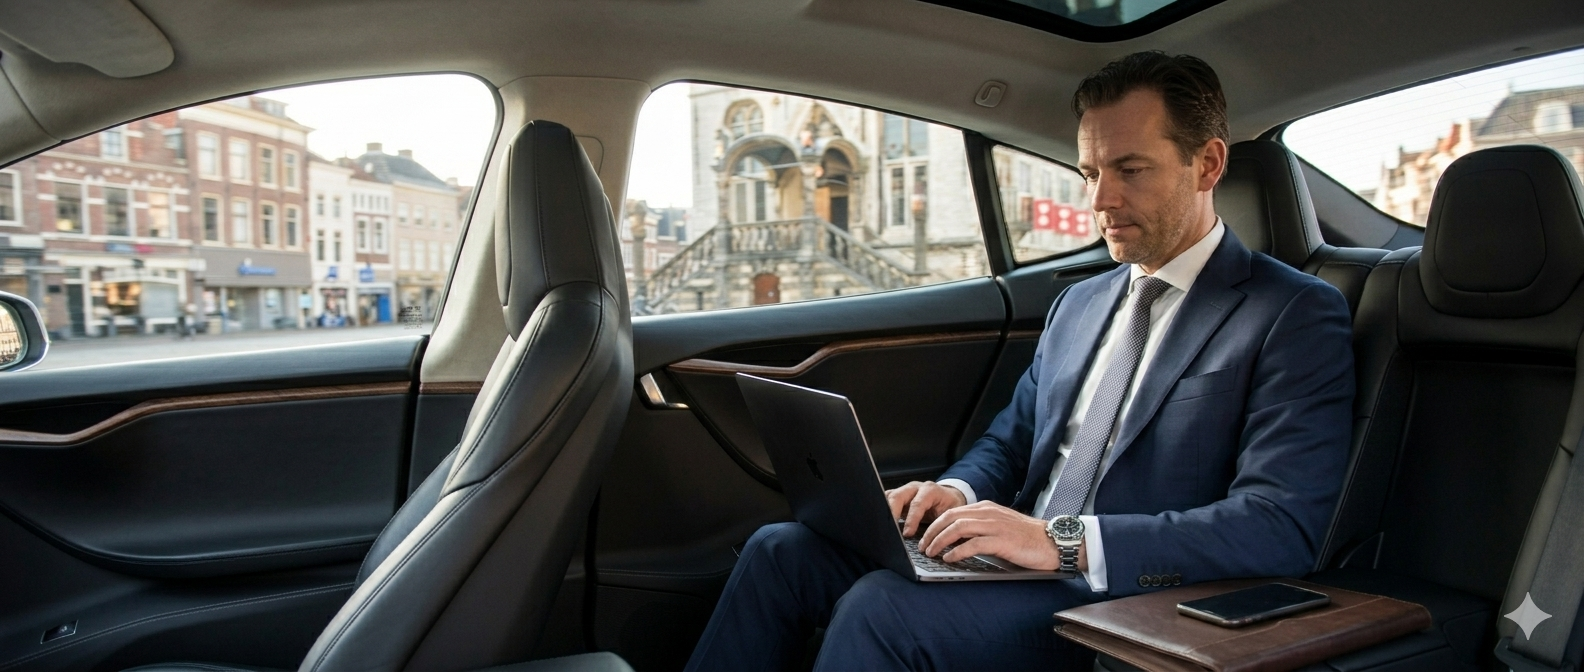
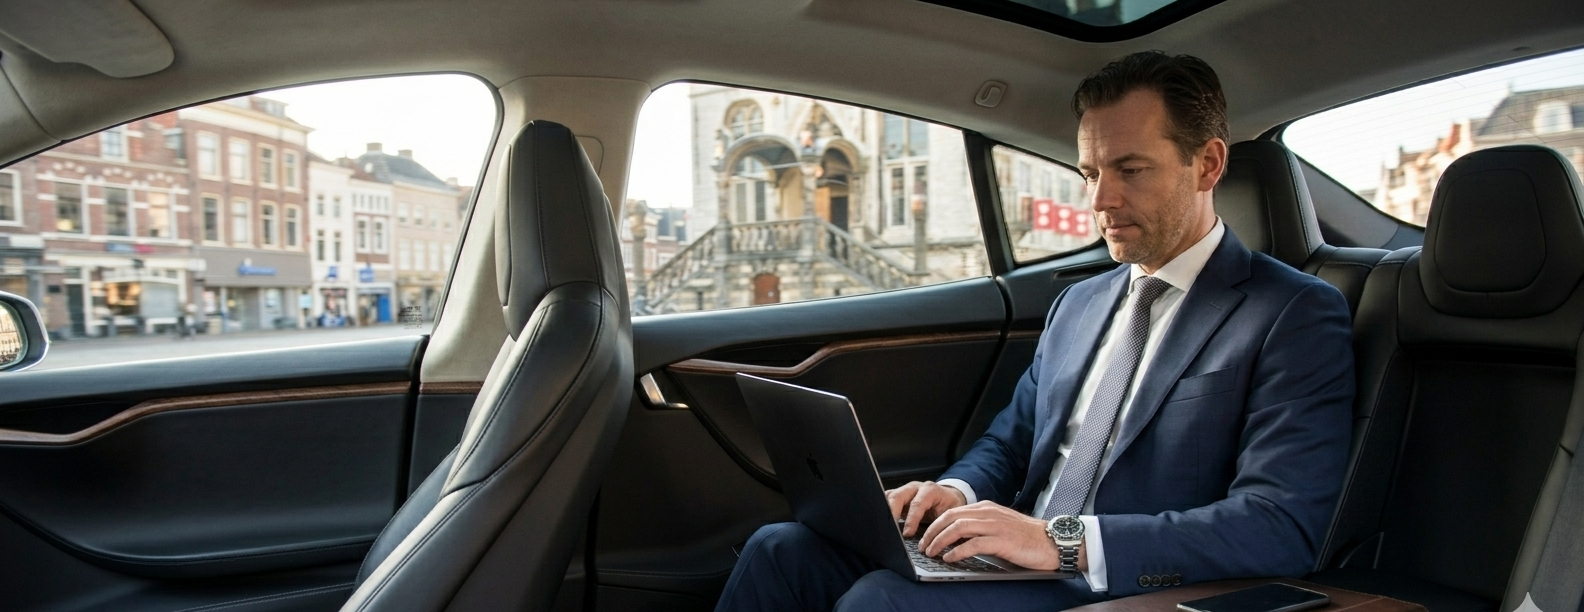
UI updates: hero carousel, footer, reviews, diensten contact notice
- Remove reviews section from homepage
- Update footer copyright to '2026 YAS taxicentrale alle rechten voorbehouden'
- Hero carousel: shorter height (78vh), pill-style buttons, stats above buttons
- Hero slides: switch to img tags with object-fit cover for full-quality display
- Remove Gemini watermarks from zakelijk and schoolvervoer images (crop bottom)
- Replace gemini gouda.png with gouda stad.png collage
- Add contact notice on airport-service page for unlisted start locations
- Left/right carousel arrows hidden

diff --git a/resources/views/home.blade.php b/resources/views/home.blade.php
@@ -10,119 +10,91 @@
 
     {{-- Slide 1: Airport --}}
     <div class="hero-slide active" id="slide-0">
-        <div class="hero-slide-bg" style="background-image:url('/vliegveld.jpg');filter:brightness(0.5)"></div>
-        <div class="absolute inset-0" style="background:linear-gradient(to bottom,rgba(0,0,0,0.1) 0%,rgba(0,0,0,0) 30%,rgba(0,0,0,0.8) 100%)"></div>
-        <div class="absolute bottom-0 left-0 right-0 px-8 sm:px-16 pb-16 z-10">
-            <h1 class="text-4xl sm:text-5xl lg:text-6xl font-black leading-tight mb-4 text-white">
-                Uw taxi naar<br><span class="text-[#f5c518]">alle luchthavens</span>
-            </h1>
-            <p class="text-white/75 text-base sm:text-lg max-w-lg mb-7 font-light leading-relaxed">
-                Betrouwbaar, punctueel en comfortabel naar Schiphol, Rotterdam en meer. 24/7 beschikbaar.
-            </p>
-            <div class="flex flex-wrap gap-3 mb-10">
-                <a href="{{ route('reserveren') }}" class="bg-[#f5c518] hover:bg-yellow-400 text-black font-bold px-6 py-3 rounded-xl transition-all hover:-translate-y-0.5 text-sm">
-                    Direct Boeken
-                </a>
-                <a href="{{ route('airport-service') }}" class="border border-white/40 hover:border-[#f5c518]/70 text-white font-semibold px-6 py-3 rounded-xl transition-all hover:-translate-y-0.5 text-sm backdrop-blur-sm">
-                    Bekijk Tarieven
-                </a>
+        <img class="hero-slide-img" src="/vliegveld.jpg" alt="Airport" style="filter:brightness(0.5)">
+        <div class="absolute inset-0" style="background:linear-gradient(135deg,rgba(0,0,0,0.7) 0%,rgba(0,0,0,0.3) 100%)"></div>
+        <div class="hero-content">
+            <span class="hero-label">Airport Transfer</span>
+            <h1 class="hero-title">Uw taxi naar<br><span class="hero-accent">alle luchthavens</span></h1>
+            <p class="hero-sub">Betrouwbaar, punctueel en comfortabel naar Schiphol, Rotterdam en meer. 24/7 beschikbaar.</p>
+            <div class="hero-stats">
+                <div class="hero-stat"><span class="hero-stat-val accent">24/7</span><span class="hero-stat-lbl">Beschikbaar</span></div>
+                <div class="hero-stat"><span class="hero-stat-val">€79,-</span><span class="hero-stat-lbl">Vanaf Gouda</span></div>
+                <div class="hero-stat"><span class="hero-stat-val">6+</span><span class="hero-stat-lbl">Luchthavens</span></div>
             </div>
-            <div class="flex gap-10 pt-5" style="border-top:1px solid rgba(255,255,255,0.15)">
-                <div><div class="text-2xl font-black text-[#f5c518]">24/7</div><div class="text-white/50 text-[10px] uppercase tracking-wider mt-0.5">Beschikbaar</div></div>
-                <div><div class="text-2xl font-black text-white">€79,-</div><div class="text-white/50 text-[10px] uppercase tracking-wider mt-0.5">Vanaf Gouda</div></div>
-                <div><div class="text-2xl font-black text-white">6+</div><div class="text-white/50 text-[10px] uppercase tracking-wider mt-0.5">Luchthavens</div></div>
+            <div class="hero-btns">
+                <a href="{{ route('reserveren') }}" class="hero-btn-primary">Direct Boeken</a>
+                <a href="{{ route('airport-service') }}" class="hero-btn-secondary">Bekijk Tarieven</a>
             </div>
         </div>
     </div>
 
     {{-- Slide 2: Gouda regio --}}
     <div class="hero-slide" id="slide-1">
-        <div class="hero-slide-bg" style="background-image:url('/gemini%20gouda.png');filter:brightness(0.45)"></div>
-        <div class="absolute inset-0" style="background:linear-gradient(to bottom,rgba(0,0,0,0.05) 0%,rgba(0,0,0,0) 25%,rgba(0,0,0,0.72) 100%)"></div>
-        <div class="absolute bottom-0 left-0 right-0 px-8 sm:px-16 pb-16 z-10">
-            <h2 class="text-4xl sm:text-5xl lg:text-6xl font-black leading-tight mb-4 text-white">
-                Taxi in Gouda<br><span class="text-[#f5c518]">& omgeving</span>
-            </h2>
-            <p class="text-white/75 text-base sm:text-lg max-w-lg mb-7 font-light leading-relaxed">
-                Van station Gouda naar uw bestemming, of door heel de regio. Snel, betrouwbaar en altijd op tijd.
-            </p>
-            <div class="flex flex-wrap gap-3 mb-10">
-                <a href="{{ route('reserveren') }}" class="bg-[#f5c518] hover:bg-yellow-400 text-black font-bold px-6 py-3 rounded-xl transition-all hover:-translate-y-0.5 text-sm">
-                    Rit Boeken
-                </a>
-                <a href="{{ route('diensten') }}" class="border border-white/40 hover:border-[#f5c518]/70 text-white font-semibold px-6 py-3 rounded-xl transition-all hover:-translate-y-0.5 text-sm backdrop-blur-sm">
-                    Meer Info
-                </a>
+        <img class="hero-slide-img" src="/gouda stad.png" alt="Gouda" style="filter:brightness(0.5)">
+        <div class="absolute inset-0" style="background:linear-gradient(135deg,rgba(0,0,0,0.7) 0%,rgba(0,0,0,0.3) 100%)"></div>
+        <div class="hero-content">
+            <span class="hero-label">Lokaal Vervoer</span>
+            <h2 class="hero-title">Taxi in Gouda<br><span class="hero-accent">& omgeving</span></h2>
+            <p class="hero-sub">Van station Gouda naar uw bestemming, of door heel de regio. Snel, betrouwbaar en altijd op tijd.</p>
+            <div class="hero-stats">
+                <div class="hero-stat"><span class="hero-stat-val accent">Gouda</span><span class="hero-stat-lbl">& Omgeving</span></div>
+                <div class="hero-stat"><span class="hero-stat-val">Snel</span><span class="hero-stat-lbl">Op Tijd</span></div>
+                <div class="hero-stat"><span class="hero-stat-val">24/7</span><span class="hero-stat-lbl">Bereikbaar</span></div>
             </div>
-            <div class="flex gap-10 pt-5" style="border-top:1px solid rgba(255,255,255,0.15)">
-                <div><div class="text-2xl font-black text-[#f5c518]">Gouda</div><div class="text-white/50 text-[10px] uppercase tracking-wider mt-0.5">& Omgeving</div></div>
-                <div><div class="text-2xl font-black text-white">Snel</div><div class="text-white/50 text-[10px] uppercase tracking-wider mt-0.5">Op Tijd</div></div>
-                <div><div class="text-2xl font-black text-white">24/7</div><div class="text-white/50 text-[10px] uppercase tracking-wider mt-0.5">Bereikbaar</div></div>
+            <div class="hero-btns">
+                <a href="{{ route('reserveren') }}" class="hero-btn-primary">Rit Boeken</a>
+                <a href="{{ route('diensten') }}" class="hero-btn-secondary">Meer Info</a>
             </div>
         </div>
     </div>
 
     {{-- Slide 3: Zakelijk --}}
     <div class="hero-slide" id="slide-2">
-        <div class="hero-slide-bg" style="background-image:url('/Gemini%20zakelijk.png');filter:brightness(0.5)"></div>
-        <div class="absolute inset-0" style="background:linear-gradient(to bottom,rgba(0,0,0,0.05) 0%,rgba(0,0,0,0) 25%,rgba(0,0,0,0.72) 100%)"></div>
-        <div class="absolute bottom-0 left-0 right-0 px-8 sm:px-16 pb-16 z-10">
-            <h2 class="text-4xl sm:text-5xl lg:text-6xl font-black leading-tight mb-4 text-white">
-                Zakelijk vervoer<br><span class="text-[#f5c518]">op maat</span>
-            </h2>
-            <p class="text-white/75 text-base sm:text-lg max-w-lg mb-7 font-light leading-relaxed">
-                Representatief en betrouwbaar voor uw zakelijke afspraken. Altijd netjes, altijd op tijd.
-            </p>
-            <div class="flex flex-wrap gap-3 mb-10">
-                <a href="{{ route('reserveren') }}" class="bg-[#f5c518] hover:bg-yellow-400 text-black font-bold px-6 py-3 rounded-xl transition-all hover:-translate-y-0.5 text-sm">
-                    Zakelijk Boeken
-                </a>
-                <a href="{{ route('contact') }}" class="border border-white/40 hover:border-[#f5c518]/70 text-white font-semibold px-6 py-3 rounded-xl transition-all hover:-translate-y-0.5 text-sm backdrop-blur-sm">
-                    Neem Contact Op
-                </a>
+        <img class="hero-slide-img" src="/Gemini zakelijk.png" alt="Zakelijk" style="filter:brightness(0.5)">
+        <div class="absolute inset-0" style="background:linear-gradient(135deg,rgba(0,0,0,0.7) 0%,rgba(0,0,0,0.3) 100%)"></div>
+        <div class="hero-content">
+            <span class="hero-label">Zakelijk Vervoer</span>
+            <h2 class="hero-title">Zakelijk vervoer<br><span class="hero-accent">op maat</span></h2>
+            <p class="hero-sub">Representatief en betrouwbaar voor uw zakelijke afspraken. Altijd netjes, altijd op tijd.</p>
+            <div class="hero-stats">
+                <div class="hero-stat"><span class="hero-stat-val accent">100%</span><span class="hero-stat-lbl">Betrouwbaar</span></div>
+                <div class="hero-stat"><span class="hero-stat-val">Vast</span><span class="hero-stat-lbl">Tarief</span></div>
+                <div class="hero-stat"><span class="hero-stat-val">Punctueel</span><span class="hero-stat-lbl">Gegarandeerd</span></div>
             </div>
-            <div class="flex gap-10 pt-5" style="border-top:1px solid rgba(255,255,255,0.15)">
-                <div><div class="text-2xl font-black text-[#f5c518]">100%</div><div class="text-white/50 text-[10px] uppercase tracking-wider mt-0.5">Betrouwbaar</div></div>
-                <div><div class="text-2xl font-black text-white">Vast</div><div class="text-white/50 text-[10px] uppercase tracking-wider mt-0.5">Tarief</div></div>
-                <div><div class="text-2xl font-black text-white">5★</div><div class="text-white/50 text-[10px] uppercase tracking-wider mt-0.5">Beoordeling</div></div>
+            <div class="hero-btns">
+                <a href="{{ route('reserveren') }}" class="hero-btn-primary">Zakelijk Boeken</a>
+                <a href="{{ route('contact') }}" class="hero-btn-secondary">Neem Contact Op</a>
             </div>
         </div>
     </div>
 
     {{-- Slide 4: Schoolvervoer --}}
     <div class="hero-slide" id="slide-4">
-        <div class="hero-slide-bg" style="background-image:url('/Gemini_Generated_Image_y6uy9qy6uy9qy6uy.png');background-position:center center;filter:brightness(0.45)"></div>
-        <div class="absolute inset-0" style="background:linear-gradient(to bottom,rgba(0,0,0,0.05) 0%,rgba(0,0,0,0) 25%,rgba(0,0,0,0.75) 100%)"></div>
-        <div class="absolute bottom-0 left-0 right-0 px-8 sm:px-16 pb-16 z-10">
-            <h2 class="text-4xl sm:text-5xl lg:text-6xl font-black leading-tight mb-4 text-white">
-                Veilig naar school,<br><span class="text-[#f5c518]">elke dag weer</span>
-            </h2>
-            <p class="text-white/75 text-base sm:text-lg max-w-lg mb-7 font-light leading-relaxed">
-                Betrouwbaar schoolvervoer voor uw kind. Vaste chauffeur, vaste tijden en altijd veilig op de bestemming. U hoeft zich geen zorgen te maken.
-            </p>
-            <div class="flex flex-wrap gap-3 mb-10">
-                <a href="tel:+31XXXXXXXXX" class="bg-[#f5c518] hover:bg-yellow-400 text-black font-bold px-6 py-3 rounded-xl transition-all hover:-translate-y-0.5 text-sm">
-                    Info Aanvragen
-                </a>
-                <a href="{{ route('contact') }}" class="border border-white/40 hover:border-[#f5c518]/70 text-white font-semibold px-6 py-3 rounded-xl transition-all hover:-translate-y-0.5 text-sm backdrop-blur-sm">
-                    Meer Info
-                </a>
+        <img class="hero-slide-img" src="/Gemini_Generated_Image_y6uy9qy6uy9qy6uy.png" alt="Schoolvervoer" style="filter:brightness(0.5)">
+        <div class="absolute inset-0" style="background:linear-gradient(135deg,rgba(0,0,0,0.7) 0%,rgba(0,0,0,0.3) 100%)"></div>
+        <div class="hero-content">
+            <span class="hero-label">Schoolvervoer</span>
+            <h2 class="hero-title">Veilig naar school,<br><span class="hero-accent">elke dag weer</span></h2>
+            <p class="hero-sub">Betrouwbaar schoolvervoer voor uw kind. Vaste chauffeur, vaste tijden, altijd veilig op de bestemming.</p>
+            <div class="hero-stats">
+                <div class="hero-stat"><span class="hero-stat-val accent">Veilig</span><span class="hero-stat-lbl">Gegarandeerd</span></div>
+                <div class="hero-stat"><span class="hero-stat-val">Vast</span><span class="hero-stat-lbl">Chauffeur</span></div>
+                <div class="hero-stat"><span class="hero-stat-val">Dagelijks</span><span class="hero-stat-lbl">Beschikbaar</span></div>
             </div>
-            <div class="flex gap-10 pt-5" style="border-top:1px solid rgba(255,255,255,0.15)">
-                <div><div class="text-2xl font-black text-[#f5c518]">Veilig</div><div class="text-white/50 text-[10px] uppercase tracking-wider mt-0.5">Gegarandeerd</div></div>
-                <div><div class="text-2xl font-black text-white">Vast</div><div class="text-white/50 text-[10px] uppercase tracking-wider mt-0.5">Chauffeur</div></div>
-                <div><div class="text-2xl font-black text-white">Dagelijks</div><div class="text-white/50 text-[10px] uppercase tracking-wider mt-0.5">Beschikbaar</div></div>
+            <div class="hero-btns">
+                <a href="tel:+31XXXXXXXXX" class="hero-btn-primary">Info Aanvragen</a>
+                <a href="{{ route('contact') }}" class="hero-btn-secondary">Meer Info</a>
             </div>
         </div>
     </div>
 
     {{-- Pijl links --}}
-    <button id="carousel-prev" class="carousel-arrow" style="left:1.5rem">
+    <button id="carousel-prev" class="carousel-arrow" style="left:1.5rem;display:none">
         <svg width="20" height="20" fill="none" stroke="currentColor" stroke-width="2.5" viewBox="0 0 24 24"><path stroke-linecap="round" stroke-linejoin="round" d="M15 19l-7-7 7-7"/></svg>
     </button>
 
     {{-- Pijl rechts --}}
-    <button id="carousel-next" class="carousel-arrow" style="right:1.5rem">
+    <button id="carousel-next" class="carousel-arrow" style="right:1.5rem;display:none">
         <svg width="20" height="20" fill="none" stroke="currentColor" stroke-width="2.5" viewBox="0 0 24 24"><path stroke-linecap="round" stroke-linejoin="round" d="M9 5l7 7-7 7"/></svg>
     </button>
 
@@ -137,11 +109,72 @@
 </section>
 
 <style>
-#hero { position:relative; width:100%; height:100vh; min-height:600px; overflow:hidden; }
+#hero { position:relative; width:100%; height:78vh; min-height:520px; overflow:hidden; }
 .hero-slide          { position:absolute; inset:0; opacity:0; transition:opacity 1.2s ease; }
 .hero-slide.active   { opacity:1; }
-.hero-slide-bg       { position:absolute; inset:0; transform:scale(1.08); transition:transform 8s ease; background-size:cover; background-position:center; }
-.hero-slide.active .hero-slide-bg { transform:scale(1); }
+.hero-slide          { background:#000; }
+.hero-slide-img      { position:absolute; inset:0; width:100%; height:100%; object-fit:cover; object-position:center; }
+
+/* Content layout */
+.hero-content {
+    position:absolute; inset:0; z-index:10;
+    display:flex; flex-direction:column; justify-content:center;
+    padding:0 4rem;
+    max-width:720px;
+}
+.hero-label {
+    display:inline-block; margin-bottom:0.75rem;
+    font-size:0.7rem; font-weight:700; letter-spacing:0.15em; text-transform:uppercase;
+    color:#f5c518; border:1px solid rgba(245,197,24,0.4);
+    padding:0.25rem 0.75rem; border-radius:4px;
+    background:rgba(245,197,24,0.08);
+    width:fit-content;
+}
+.hero-title {
+    font-size:clamp(2rem,4.5vw,3.5rem); font-weight:900; line-height:1.1;
+    color:#fff; margin-bottom:1rem;
+    text-shadow:0 2px 8px rgba(0,0,0,0.5);
+}
+.hero-accent { color:#f5c518; }
+.hero-sub {
+    font-size:1rem; color:#e5e7eb; font-weight:400; line-height:1.65;
+    max-width:480px; margin-bottom:1.5rem;
+    text-shadow:0 1px 4px rgba(0,0,0,0.6);
+}
+.hero-btns { display:flex; flex-wrap:wrap; gap:0.75rem; margin-bottom:1.75rem; }
+.hero-btn-primary {
+    background:#f5c518; color:#111; font-weight:700;
+    padding:0.75rem 2rem; border-radius:9999px; font-size:0.9rem;
+    transition:background 0.2s, transform 0.2s; text-decoration:none;
+}
+.hero-btn-primary:hover { background:#fdd835; transform:translateY(-2px); }
+.hero-btn-secondary {
+    border:1.5px solid rgba(255,255,255,0.45); color:#fff; font-weight:600;
+    padding:0.75rem 2rem; border-radius:9999px; font-size:0.9rem;
+    transition:border-color 0.2s, transform 0.2s; text-decoration:none;
+    backdrop-filter:blur(4px); background:rgba(30,30,30,0.5);
+}
+.hero-btn-secondary:hover { border-color:#f5c518; color:#f5c518; transform:translateY(-2px); }
+.hero-stats {
+    display:flex; gap:2rem;
+    padding-bottom:1.25rem; border-bottom:1px solid rgba(255,255,255,0.2);
+    margin-bottom:1.5rem;
+}
+.hero-stat { display:flex; flex-direction:column; }
+.hero-stat-val {
+    font-size:1.35rem; font-weight:900; color:#fff;
+    text-shadow:0 1px 4px rgba(0,0,0,0.5);
+}
+.hero-stat-val.accent { color:#f5c518; }
+.hero-stat-lbl {
+    font-size:0.65rem; text-transform:uppercase; letter-spacing:0.1em;
+    color:rgba(255,255,255,0.75); margin-top:2px;
+    text-shadow:0 1px 3px rgba(0,0,0,0.6);
+}
+@media(max-width:640px){
+    .hero-content { padding:0 1.5rem; }
+    .hero-title { font-size:1.75rem; }
+}
 
 /* Arrows */
 .carousel-arrow {
@@ -292,51 +325,6 @@
             <a href="{{ route('reserveren') }}" class="bg-[#f5c518] hover:bg-yellow-400 text-black font-bold px-10 py-4 rounded-xl transition-all hover:shadow-xl hover:shadow-yellow-500/30 hover:-translate-y-1 inline-block text-lg">
                 Start nu met boeken
             </a>
-        </div>
-    </div>
-</section>
-
-{{-- Reviews --}}
-<section class="py-24">
-    <div class="max-w-7xl mx-auto px-4 sm:px-6 lg:px-8">
-        <div class="text-center mb-16">
-            <span class="text-[#f5c518] text-sm font-semibold uppercase tracking-widest">Klantervaringen</span>
-            <h2 class="text-4xl sm:text-5xl font-black mt-3 mb-2 text-gray-900">Wat klanten zeggen</h2>
-            <div class="flex items-center justify-center gap-2 mt-4">
-                <div class="flex text-[#f5c518]">
-                    @for($i = 0; $i < 5; $i++)
-                    <svg class="w-5 h-5" fill="currentColor" viewBox="0 0 24 24"><path d="M12 17.27L18.18 21l-1.64-7.03L22 9.24l-7.19-.61L12 2 9.19 8.63 2 9.24l5.46 4.73L5.82 21z"/></svg>
-                    @endfor
-                </div>
-                <span class="text-gray-900 font-semibold">4.9 / 5</span>
-                <span class="text-gray-400 text-sm">gebaseerd op klantreviews</span>
-            </div>
-        </div>
-
-        <div class="grid grid-cols-1 md:grid-cols-3 gap-6">
-            @foreach([
-                ['name' => 'Mohammed Al-Rashid', 'text' => 'Fantastische service! De chauffeur was precies op tijd voor mijn vlucht naar Schiphol. Heel professioneel en vriendelijk. Zeker voor herhaling vatbaar.', 'city' => 'Amsterdam'],
-                ['name' => 'Sandra de Vries', 'text' => 'Al meerdere keren gebruik gemaakt van deze taxicentrale. Altijd stipt, altijd schone auto en altijd een vriendelijke chauffeur. Absoluut aanrader!', 'city' => 'Utrecht'],
-                ['name' => 'Pieter Janssen', 'text' => 'Geweldig bedrijf voor zakelijke ritten. Zeer representatief, punctueel en ze denken mee. Mijn vaste taxibedrijf voor alle zakenreizen.', 'city' => 'Rotterdam'],
-            ] as $review)
-            <div class="bg-white border border-gray-200 rounded-2xl p-8 shadow-sm">
-                <div class="flex text-[#f5c518] mb-4">
-                    @for($i = 0; $i < 5; $i++)
-                    <svg class="w-4 h-4" fill="currentColor" viewBox="0 0 24 24"><path d="M12 17.27L18.18 21l-1.64-7.03L22 9.24l-7.19-.61L12 2 9.19 8.63 2 9.24l5.46 4.73L5.82 21z"/></svg>
-                    @endfor
-                </div>
-                <p class="text-gray-600 text-sm leading-relaxed mb-6">"{{ $review['text'] }}"</p>
-                <div class="flex items-center gap-3">
-                    <div class="w-10 h-10 bg-[#f5c518]/20 rounded-full flex items-center justify-center text-[#f5c518] font-bold text-sm">
-                        {{ substr($review['name'], 0, 1) }}
-                    </div>
-                    <div>
-                        <div class="text-gray-900 font-semibold text-sm">{{ $review['name'] }}</div>
-                        <div class="text-gray-400 text-xs">{{ $review['city'] }}</div>
-                    </div>
-                </div>
-            </div>
-            @endforeach
         </div>
     </div>
 </section>

diff --git a/resources/views/airport-service.blade.php b/resources/views/airport-service.blade.php
@@ -64,6 +64,22 @@
             <span class="text-[#f5c518] text-sm font-semibold uppercase tracking-widest">Tarieven</span>
             <h2 class="text-4xl font-black mt-3 mb-4 text-gray-900">Vaste Prijzen per Luchthaven</h2>
             <p class="text-gray-500 max-w-xl mx-auto text-sm">Alle tarieven zijn <strong class="text-gray-900">enkele reis</strong> voor 1 t/m 4 personen, van uw startlocatie naar de luchthaven. Prijzen gelden bij boeking minimaal <strong class="text-gray-900">24 uur van tevoren</strong>.</p>
+
+            <div class="mt-6 inline-flex items-center gap-4 bg-[#f5c518]/10 border border-[#f5c518]/30 rounded-2xl px-6 py-4 max-w-xl mx-auto">
+                <svg class="w-5 h-5 text-[#f5c518] shrink-0" fill="none" stroke="currentColor" stroke-width="2" viewBox="0 0 24 24"><path stroke-linecap="round" stroke-linejoin="round" d="M13 16h-1v-4h-1m1-4h.01M21 12a9 9 0 11-18 0 9 9 0 0118 0z"/></svg>
+                <p class="text-sm text-gray-700 text-left">Staat uw startlocatie er niet bij? <strong class="text-gray-900">Bel of stuur een bericht</strong>, wij maken altijd een prijs op maat.
+                    <span class="flex gap-3 mt-2">
+                        <a href="tel:+31XXXXXXXXX" class="inline-flex items-center gap-1.5 text-[#f5c518] font-semibold text-xs hover:underline">
+                            <svg class="w-3.5 h-3.5" fill="none" stroke="currentColor" stroke-width="2.5" viewBox="0 0 24 24"><path stroke-linecap="round" stroke-linejoin="round" d="M3 5a2 2 0 012-2h3.28a1 1 0 01.948.684l1.498 4.493a1 1 0 01-.502 1.21l-2.257 1.13a11.042 11.042 0 005.516 5.516l1.13-2.257a1 1 0 011.21-.502l4.493 1.498a1 1 0 01.684.949V19a2 2 0 01-2 2h-1C9.716 21 3 14.284 3 6V5z"/></svg>
+                            Bel ons
+                        </a>
+                        <a href="{{ route('contact') }}" class="inline-flex items-center gap-1.5 text-[#f5c518] font-semibold text-xs hover:underline">
+                            <svg class="w-3.5 h-3.5" fill="none" stroke="currentColor" stroke-width="2.5" viewBox="0 0 24 24"><path stroke-linecap="round" stroke-linejoin="round" d="M8 10h.01M12 10h.01M16 10h.01M9 16H5a2 2 0 01-2-2V6a2 2 0 012-2h14a2 2 0 012 2v8a2 2 0 01-2 2h-5l-5 5v-5z"/></svg>
+                            Stuur een bericht
+                        </a>
+                    </span>
+                </p>
+            </div>
         </div>
 
         <div class="grid grid-cols-1 lg:grid-cols-2 gap-10">

diff --git a/resources/views/layouts/app.blade.php b/resources/views/layouts/app.blade.php
@@ -152,7 +152,7 @@
             </div>
 
             <div class="mt-12 pt-8 border-t border-white/10 flex flex-col sm:flex-row items-center justify-between gap-4">
-                <p class="text-gray-500 text-sm">&copy; {{ date('Y') }} TaxiCentrale. Alle rechten voorbehouden.</p>
+                <p class="text-gray-500 text-sm">{{ date('Y') }} YAS taxicentrale alle rechten voorbehouden</p>
                 <p class="text-gray-600 text-xs">24/7 beschikbaar &mdash; Altijd op tijd</p>
             </div>
         </div>
